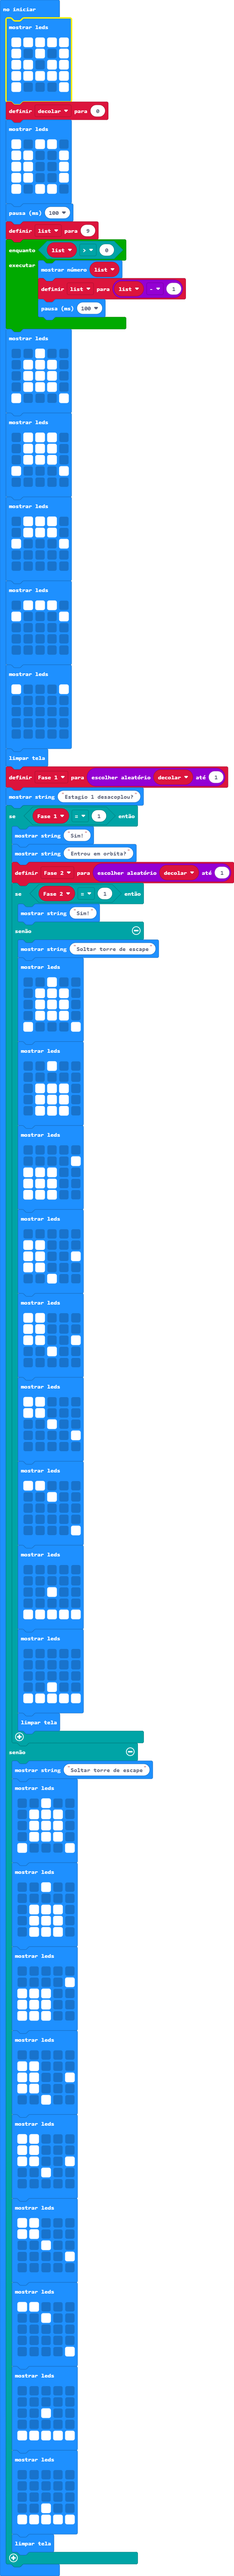
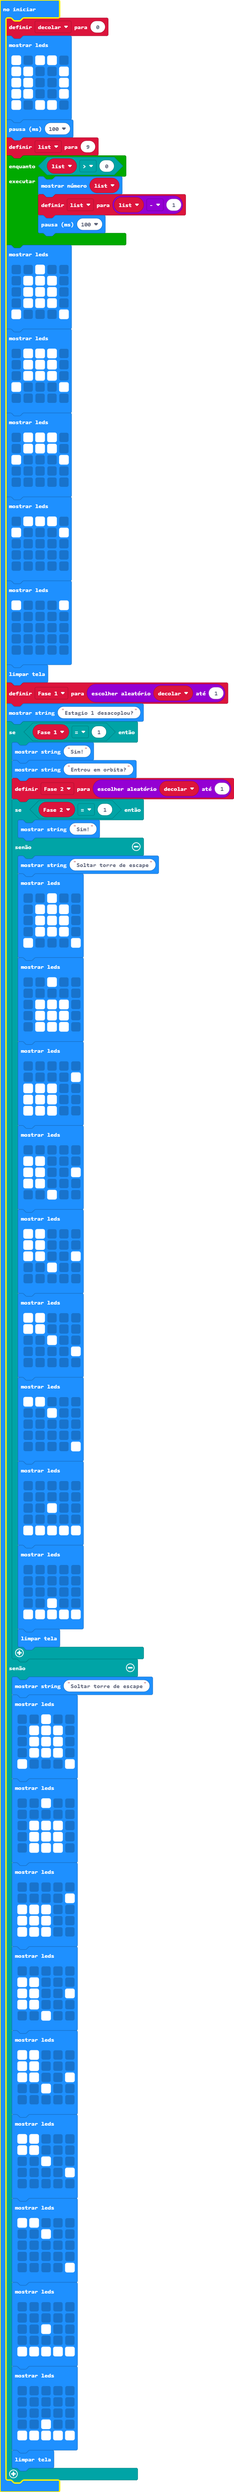
Volta

Changed region(s): [[0.0, 0.0, 1.0, 1.0]]

diff --git a/main.ts b/main.ts
@@ -1,11 +1,4 @@
 let Fase_2 = 0
-basic.showLeds(`
-    # # # # #
-    # . # . #
-    # # . # #
-    # # # # #
-    # . . . #
-    `)
 let decolar = 0
 basic.showLeds(`
     # . # # .
